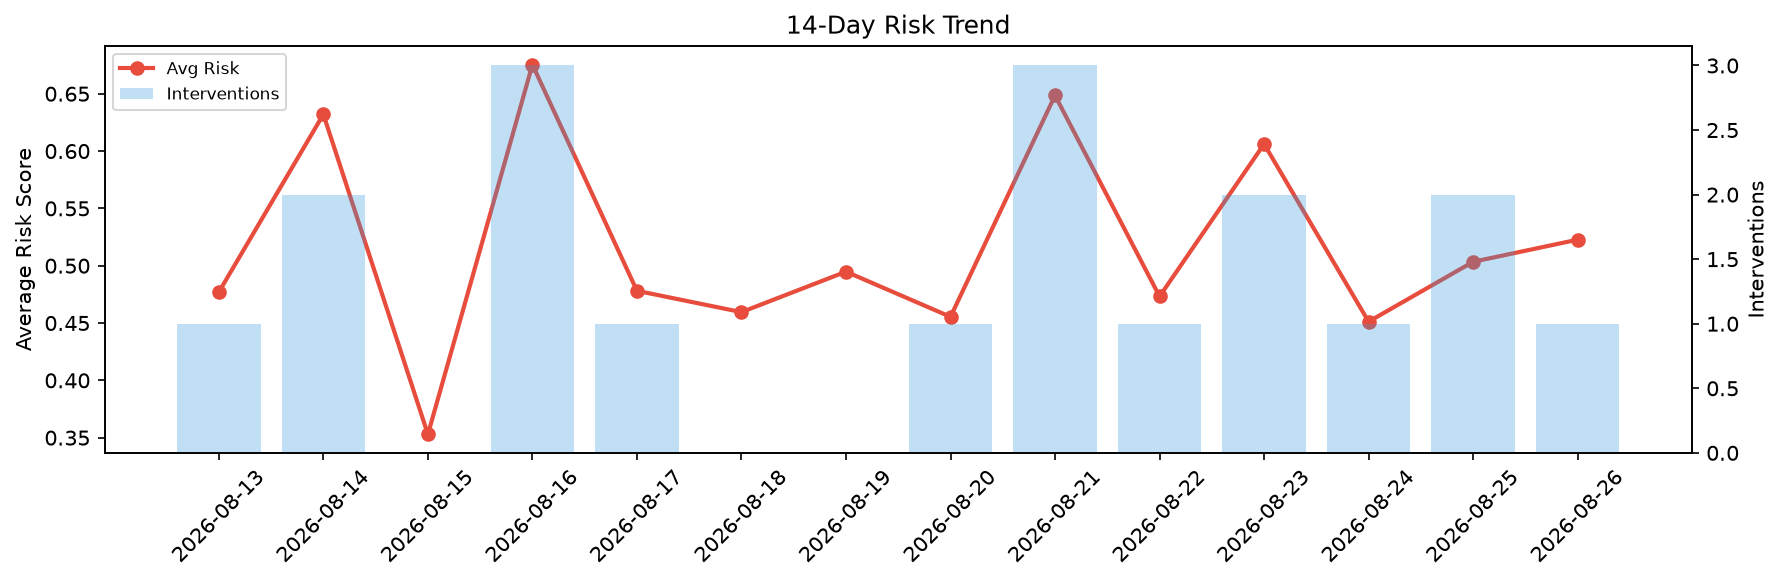
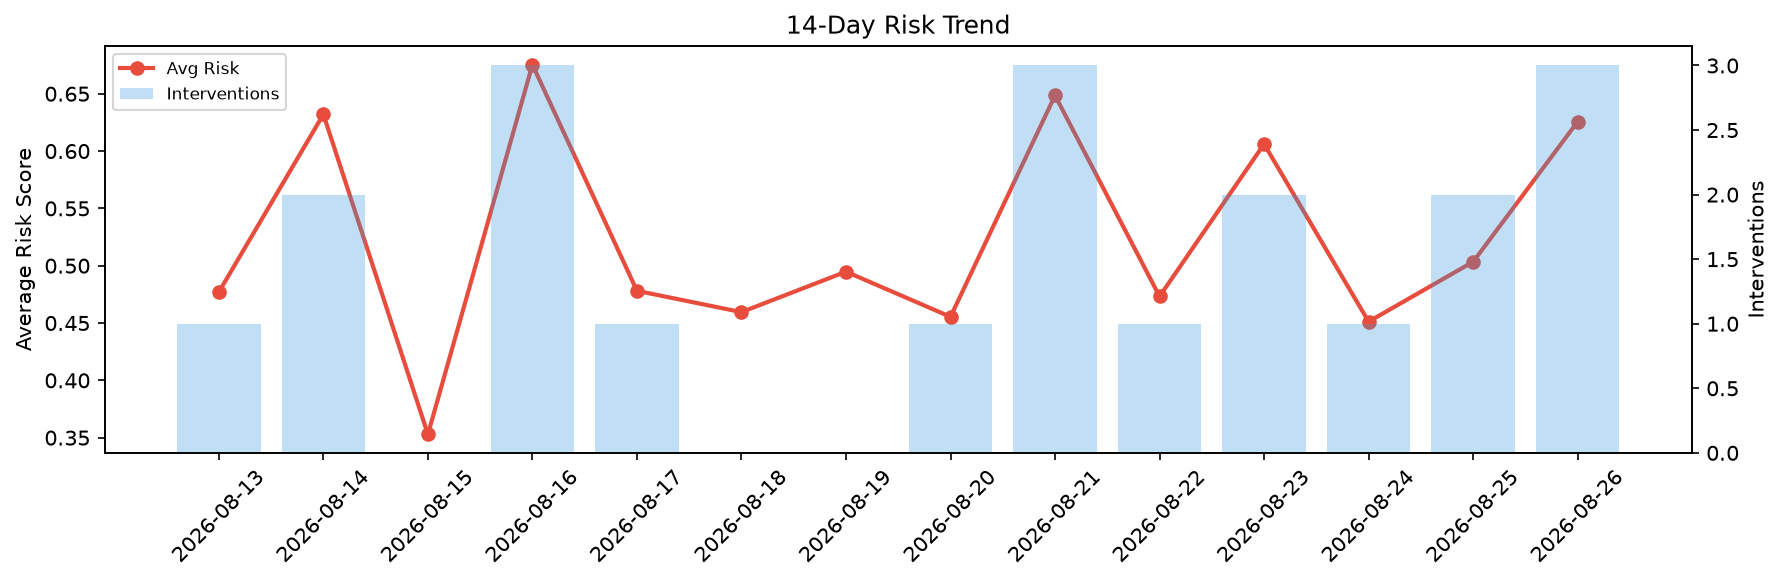
agent-improvement: daily cycle 2026-08-26T15:53

Changed region(s): [[0.8329, 0.0928, 0.9254, 0.5567]]

diff --git a/logs/2026-08-26.md b/logs/2026-08-26.md
@@ -1,6 +1,6 @@
 # Agent Improvement Report — 2026-08-26
 
-**Cycle ID:** `a8e87e9b` | **Avg Risk:** 0.5227 | **Interventions:** 1/4
+**Cycle ID:** `0edc028a` | **Avg Risk:** 0.6256 | **Interventions:** 3/4
 
 ![Dashboard](2026-08-26_dashboard.png)
 
@@ -10,18 +10,18 @@
 
 | Domain | Risk Score | Decision | Alerts |
 |--------|-----------|----------|--------|
-| code_review | 0.4211 | monitor | none |
-| incident_response | 0.4615 | monitor | none |
-| data_pipeline | 0.5452 | monitor | volume_anomaly |
-| deployment | 0.6631 | intervene | canary_error, latency_p99 |
+| code_review | 0.6612 | intervene | coverage |
+| incident_response | 0.6098 | intervene | blast_radius |
+| data_pipeline | 0.6554 | intervene | volume_anomaly |
+| deployment | 0.576 | monitor | rollback_rate |
 
 ## Delta vs Yesterday
 
 | Domain | Today | Yesterday | Change |
 |--------|-------|-----------|--------|
-| code_review | 0.4211 | 0.1962 | 📈 114.6% |
-| incident_response | 0.4615 | 0.6362 | 📉 -27.5% |
-| data_pipeline | 0.5452 | 0.6225 | 📉 -12.4% |
-| deployment | 0.6631 | 0.5589 | 📈 18.6% |
+| code_review | 0.6612 | 0.1962 | 📈 237.0% |
+| incident_response | 0.6098 | 0.6362 | 📉 -4.1% |
+| data_pipeline | 0.6554 | 0.6225 | 📈 5.3% |
+| deployment | 0.576 | 0.5589 | 📈 3.1% |
 
-**Refinement:** `{'adjustment': 'tighten_thresholds', 'trend': 'degrading', 'window': 4}`
+**Refinement:** `{'adjustment': 'maintain', 'trend': 'improving', 'window': 4}`
